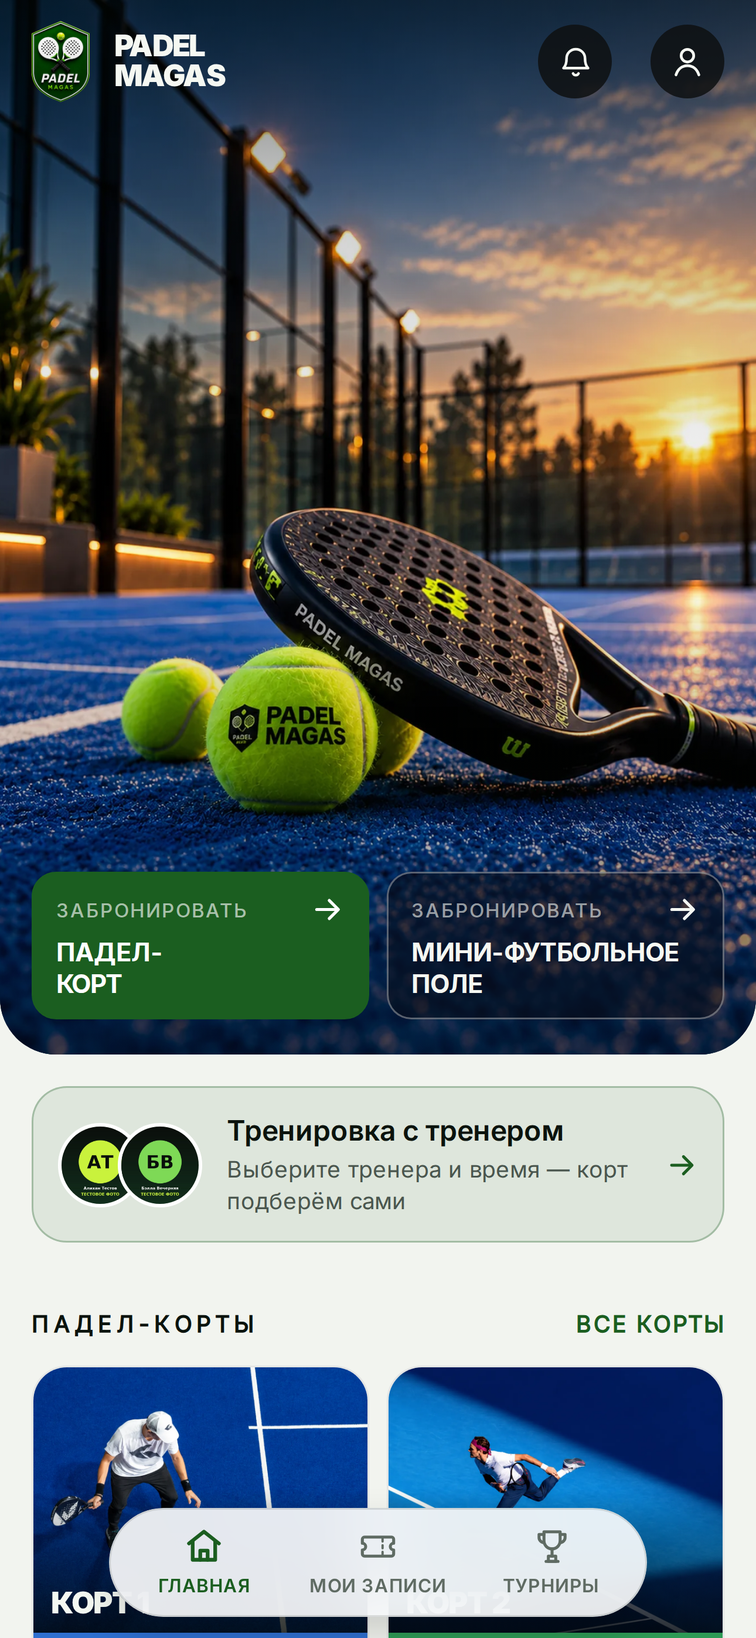
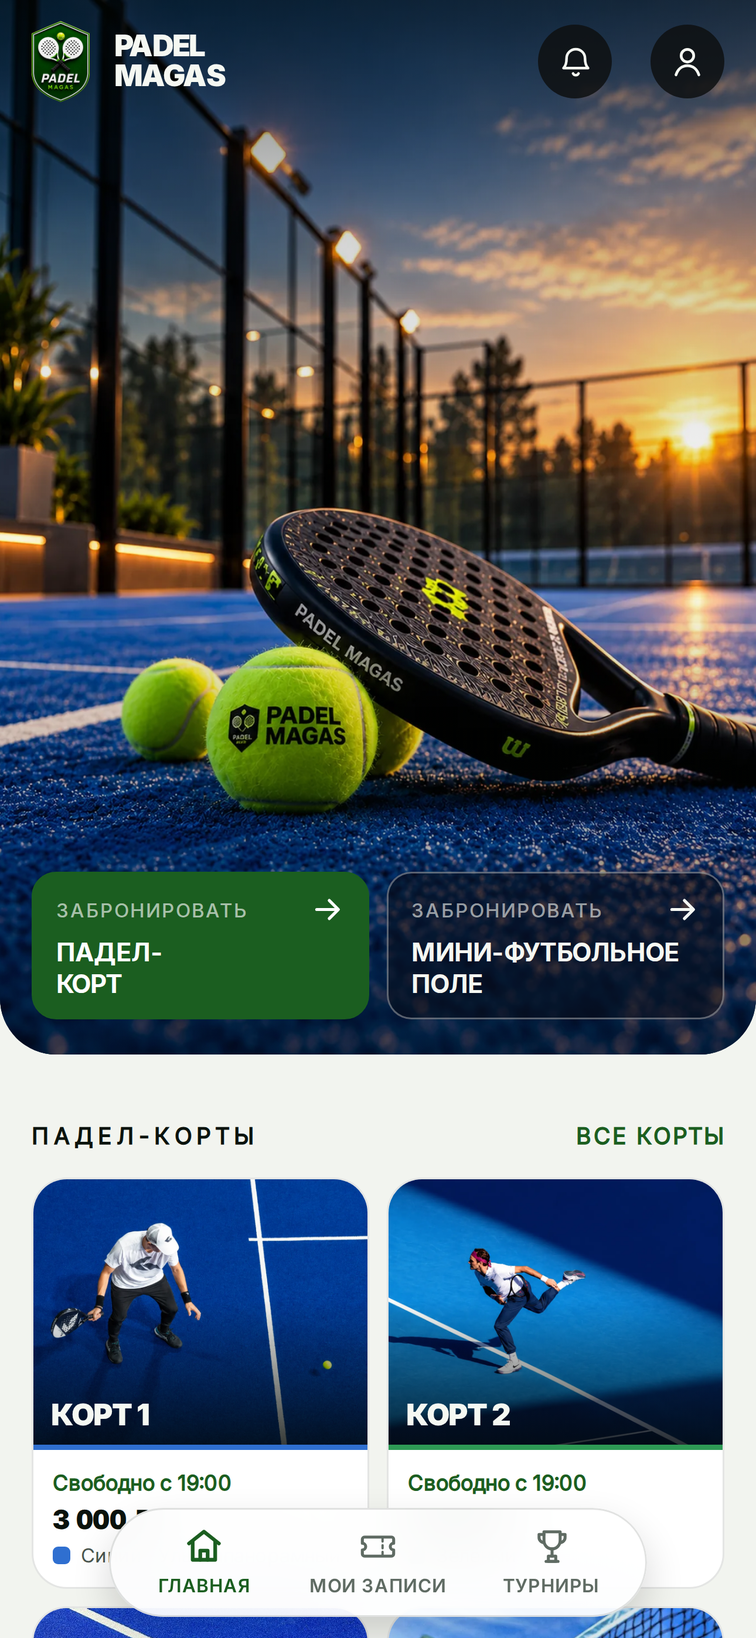
Версия 1.0.4 ушла и в TestFlight, и в App Store
Заказчик попросил, чтобы последняя версия была доступна в обоих местах.
Две версии одновременно на проверке Apple держать не даёт, поэтому заявка
на 1.0.3 отозвана, карточка переименована в 1.0.4, к ней приложена сборка 69.

Сборка 69 добавлена в группу «Друзья» и отправлена на бета-проверку;
владельцу она видна сразу — внутренняя группа имеет доступ ко всем сборкам.

Порядок выпуска собран в scripts/asc/release.py: без --go печатает план,
с --go выполняет. Вызовы сверены с документацией Apple, список в шапке.
asc.py читает идентификаторы ключа из secrets/asc.env, так что скрипты
запускаются одной командой.

В docs/APPSTORE.md записаны три грабли, на которых встал первый прогон:
DEVELOPER_REJECTED вместо PREPARE_FOR_SUBMISSION, пустые заявки нельзя
отозвать но можно использовать, и двухминутное CANCELING.

Changed region(s): [[0.031, 0.6845, 0.9612, 1.0]]

diff --git a/scripts/asc/release.py b/scripts/asc/release.py
@@ -1,0 +1,239 @@
+"""Выпуск версии: сборка уходит и в TestFlight, и в App Store.
+
+    python3 scripts/asc/release.py          # только план, ничего не меняет
+    python3 scripts/asc/release.py --go     # выполнить
+
+Почему так: две версии одновременно на проверке Apple держать не даёт.
+Поэтому заявка на прежнюю версию отзывается, карточке присваивается новый
+номер, к ней прикладывается новая сборка — и заявка отправляется заново.
+
+Вызовы сверены с документацией Apple 09.10.2026:
+  PATCH /v1/reviewSubmissions/{id}                 attributes.canceled | submitted
+  PATCH /v1/appStoreVersions/{id}                  attributes.versionString + relationships.build
+  POST  /v1/reviewSubmissions                      relationships.app
+  POST  /v1/reviewSubmissionItems                  relationships.reviewSubmission + appStoreVersion
+  POST  /v1/betaGroups/{id}/relationships/builds   data[] = {type: builds, id}
+  POST  /v1/betaBuildLocalizations                 attributes.locale + relationships.build
+"""
+import importlib.util, pathlib, sys, time
+
+APP         = '6808335944'
+VERSION_ID  = '36215d4b-1d43-46da-bc51-616c40582fe7'   # карточка версии в магазине
+TARGET      = '1.0.4'                                   # номер, который должен в ней стоять
+BUILD_NUM   = '69'                                      # номер сборки
+GROUP_FRIEND= 'ef6e1f33-4e97-48b4-9dbf-4aab01165420'   # внешняя группа «Друзья»
+OLD_SUB     = '9068f2ef-2bec-4f1f-8f55-213f802b2ead'   # заявка на 1.0.3, стоит в очереди
+EMPTY_SUBS  = ['d19a82fa-b21b-4bb2-8648-777e26faa6e2',  # пустые заявки от неудачных
+               '5a38229d-df61-44c4-b05c-855a86a06481',  # попыток — мешают создать новую
+               '5d534c86-e420-401d-85d7-c7a78ee9cb5d']
+MODEL_BUILD = 'c826c5bf-6f6b-488a-841b-1033a63c9f85'   # сборка 68: с неё берём «что тестировать»
+
+spec = importlib.util.spec_from_file_location('asc', pathlib.Path(__file__).parent / 'asc.py')
+asc = importlib.util.module_from_spec(spec); spec.loader.exec_module(asc)
+
+GO = '--go' in sys.argv
+DEAD = ('CANCELED', 'COMPLETE', 'CANCELLED')
+
+
+def step(text):
+    print(f'\n— {text}')
+
+
+def explain(out):
+    for e in (out or {}).get('errors', [{}]):
+        print(f'    {e.get("title")}: {e.get("detail")}')
+
+
+def must(st, out, label, ok=(200, 201, 204)):
+    if st in ok:
+        print(f'  ✓ {label} (HTTP {st})')
+        return out
+    print(f'  ✗ {label}: HTTP {st}')
+    explain(out)
+    sys.exit(1)
+
+
+def soft(st, out, label, ok=(200, 201, 204)):
+    """Для необязательных шагов: сообщаем и идём дальше, выпуск не останавливаем."""
+    if st in ok:
+        print(f'  ✓ {label} (HTTP {st})')
+        return True
+    print(f'  ! {label}: HTTP {st} — пропускаю')
+    explain(out)
+    return False
+
+
+def wait(label, probe, done, limit=900, pause=20):
+    """Опрашиваем, пока состояние не станет ожидаемым. Без этого следующий шаг падает."""
+    waited = 0
+    while True:
+        value = probe()
+        if done(value):
+            print(f'  ✓ {label}: {value}')
+            return value
+        if waited >= limit:
+            print(f'  ✗ {label}: за {limit // 60} мин осталось {value}')
+            sys.exit(1)
+        print(f'    {label}: {value}, ждём…')
+        time.sleep(pause); waited += pause
+
+
+def build_state(bid):
+    st, out = asc.call('GET', f'/v1/builds/{bid}')
+    return (out.get('data') or {}).get('attributes', {}).get('processingState')
+
+
+def sub_state(sid):
+    st, out = asc.call('GET', f'/v1/reviewSubmissions/{sid}')
+    return (out.get('data') or {}).get('attributes', {}).get('state')
+
+
+def version_state():
+    st, out = asc.call('GET', f'/v1/appStoreVersions/{VERSION_ID}')
+    return (out.get('data') or {}).get('attributes', {}).get('appStoreState')
+
+
+# ── сборка ────────────────────────────────────────────────────────────────────
+step(f'Ищу сборку {BUILD_NUM}')
+st, out = asc.call('GET', f'/v1/builds?filter[app]={APP}&limit=10&sort=-version')
+build = next((b for b in out.get('data', []) if b['attributes']['version'] == BUILD_NUM), None)
+if not build:
+    print(f'  ✗ сборки {BUILD_NUM} в App Store Connect нет — Apple её ещё не приняла')
+    sys.exit(1)
+BUILD_ID = build['id']
+print(f'  ✓ id {BUILD_ID}, состояние {build["attributes"]["processingState"]}')
+
+wait('обработка сборки', lambda: build_state(BUILD_ID), lambda v: v == 'VALID')
+
+st, out = asc.call('GET', f'/v1/builds/{BUILD_ID}/preReleaseVersion')
+carried = (out.get('data') or {}).get('attributes', {}).get('version')
+print(f'  номер версии внутри сборки: {carried}')
+if carried != TARGET:
+    print(f'  ✗ внутри сборки {carried}, а в магазин идёт {TARGET} — Apple отклонит как INVALID_BINARY')
+    sys.exit(1)
+
+if not GO:
+    print('\nЭто был только план. Чтобы выполнить: python3 scripts/asc/release.py --go')
+    sys.exit(0)
+
+# ── TestFlight: внешняя группа и бета-проверка ────────────────────────────────
+step('TestFlight: «что тестировать» для сборки')
+st, out = asc.call('GET', f'/v1/builds/{BUILD_ID}/betaBuildLocalizations')
+mine = {l['attributes']['locale']: l for l in out.get('data', [])}
+st, out = asc.call('GET', f'/v1/builds/{MODEL_BUILD}/betaBuildLocalizations')
+model = {l['attributes']['locale']: l['attributes'].get('whatsNew') for l in out.get('data', [])}
+
+for locale, text in model.items():
+    if not text:
+        continue
+    have = mine.get(locale)
+    if have and (have['attributes'].get('whatsNew') or '').strip():
+        print(f'  ✓ {locale}: текст уже есть, не трогаю')
+    elif have:
+        st, o = asc.call('PATCH', f'/v1/betaBuildLocalizations/{have["id"]}', {"data": {
+            "type": "betaBuildLocalizations", "id": have['id'],
+            "attributes": {"whatsNew": text}}})
+        must(st, o, f'{locale}: текст дописан')
+    else:
+        st, o = asc.call('POST', '/v1/betaBuildLocalizations', {"data": {
+            "type": "betaBuildLocalizations",
+            "attributes": {"locale": locale, "whatsNew": text},
+            "relationships": {"build": {"data": {"type": "builds", "id": BUILD_ID}}}}})
+        must(st, o, f'{locale}: текст добавлен')
+
+step('TestFlight: сборка в группу «Друзья»')
+st, out = asc.call('GET', f'/v1/builds/{BUILD_ID}/betaGroups')
+if any(g['id'] == GROUP_FRIEND for g in out.get('data', [])):
+    print('  ✓ сборка уже в группе')
+else:
+    st, o = asc.call('POST', f'/v1/betaGroups/{GROUP_FRIEND}/relationships/builds',
+                     {"data": [{"type": "builds", "id": BUILD_ID}]})
+    must(st, o, 'сборка добавлена в группу')
+
+step('TestFlight: отправка на бета-проверку')
+st, out = asc.call('GET', f'/v1/builds/{BUILD_ID}/betaAppReviewSubmission')
+already = (out.get('data') or {}).get('attributes', {}).get('betaReviewState')
+if already:
+    print(f'  ✓ уже отправлена, состояние {already}')
+else:
+    st, o = asc.call('POST', '/v1/betaAppReviewSubmissions', {"data": {
+        "type": "betaAppReviewSubmissions",
+        "relationships": {"build": {"data": {"type": "builds", "id": BUILD_ID}}}}})
+    must(st, o, 'отправлена на бета-проверку')
+    print(f'    состояние: {o["data"]["attributes"].get("betaReviewState")}')
+
+# ── App Store: освобождаем карточку ───────────────────────────────────────────
+# Пустые заявки от прошлых неудачных попыток Apple отзывать не даёт: отвечает
+# 409 «not in cancellable state». Зато такую заявку можно использовать повторно —
+# вложить в неё версию и отправить. Поэтому сначала ищем годную, и только если
+# её нет, создаём новую.
+step('App Store: ищу годную пустую заявку среди прошлых')
+REUSABLE = None
+for sid in EMPTY_SUBS:
+    st, it = asc.call('GET', f'/v1/reviewSubmissions/{sid}/items')
+    if it.get('data'):
+        print(f'  · {sid[:8]}: в заявке есть позиции — не трогаю')
+        continue
+    state = sub_state(sid)
+    if state == 'READY_FOR_REVIEW':
+        REUSABLE = sid
+        print(f'  ✓ {sid[:8]}: пустая и готова — использую её')
+        break
+    print(f'  · {sid[:8]}: состояние {state}, не годится')
+
+step('App Store: отзываю заявку на прежнюю версию')
+state = sub_state(OLD_SUB)
+if state in DEAD:
+    print(f'  ✓ уже {state}')
+else:
+    st, o = asc.call('PATCH', f'/v1/reviewSubmissions/{OLD_SUB}', {"data": {
+        "type": "reviewSubmissions", "id": OLD_SUB, "attributes": {"canceled": True}}})
+    must(st, o, f'заявка отозвана (была {state})')
+    wait('состояние заявки', lambda: sub_state(OLD_SUB), lambda v: v in DEAD)
+
+# После своего же отзыва карточка встаёт в DEVELOPER_REJECTED, а не
+# в PREPARE_FOR_SUBMISSION. Оба состояния редактируемые: номер версии и сборку
+# менять можно, заявку отправлять заново — тоже.
+EDITABLE = ('PREPARE_FOR_SUBMISSION', 'DEVELOPER_REJECTED', 'REJECTED',
+            'METADATA_REJECTED', 'INVALID_BINARY')
+wait('карточка версии', version_state, lambda v: v in EDITABLE)
+
+# ── App Store: новый номер, новая сборка, новая заявка ────────────────────────
+step(f'App Store: номер версии → {TARGET}, сборка → {BUILD_NUM}')
+st, o = asc.call('PATCH', f'/v1/appStoreVersions/{VERSION_ID}', {"data": {
+    "type": "appStoreVersions", "id": VERSION_ID,
+    "attributes": {"versionString": TARGET},
+    "relationships": {"build": {"data": {"type": "builds", "id": BUILD_ID}}}}})
+must(st, o, f'версия {TARGET} со сборкой {BUILD_NUM}')
+
+step('App Store: заявка на проверку')
+if REUSABLE:
+    SUB = REUSABLE
+    print(f'  ✓ беру прошлую пустую заявку, id {SUB}')
+else:
+    st, o = asc.call('POST', '/v1/reviewSubmissions', {"data": {
+        "type": "reviewSubmissions",
+        "relationships": {"app": {"data": {"type": "apps", "id": APP}}}}})
+    must(st, o, 'заявка создана', ok=(201,))
+    SUB = o['data']['id']
+    print(f'    id {SUB}')
+
+st, o = asc.call('POST', '/v1/reviewSubmissionItems', {"data": {
+    "type": "reviewSubmissionItems",
+    "relationships": {
+        "reviewSubmission": {"data": {"type": "reviewSubmissions", "id": SUB}},
+        "appStoreVersion": {"data": {"type": "appStoreVersions", "id": VERSION_ID}}}}})
+must(st, o, f'версия {TARGET} вложена в заявку', ok=(201,))
+
+st, o = asc.call('PATCH', f'/v1/reviewSubmissions/{SUB}', {"data": {
+    "type": "reviewSubmissions", "id": SUB, "attributes": {"submitted": True}}})
+must(st, o, 'заявка отправлена')
+print(f'    состояние заявки: {o["data"]["attributes"].get("state")}')
+
+# ── что получилось ────────────────────────────────────────────────────────────
+step('Итог')
+print(f'  App Store: версия {TARGET}, сборка {BUILD_NUM}, карточка {version_state()}')
+st, out = asc.call('GET', f'/v1/builds/{BUILD_ID}/betaAppReviewSubmission')
+print(f'  TestFlight: бета-проверка {(out.get("data") or {}).get("attributes", {}).get("betaReviewState")}')
+print('  Ссылка для друзей: https://testflight.apple.com/join/ujgg3cvu')
+print('\nСостояние потом проверять так: python3 scripts/asc/check-review.py')

diff --git a/scripts/asc/asc.py b/scripts/asc/asc.py
@@ -1,10 +1,26 @@
 """Клиент App Store Connect API. Ключ читается из файла, в вывод не попадает."""
-import os, time, json, sys, urllib.request, urllib.error
+import os, time, json, sys, pathlib, urllib.request, urllib.error
 import jwt
 
 KEY_PATH = os.environ.get('ASC_KEY_PATH', '/root/projects/Magas Paddle/secrets/AuthKey.p8')
-KEY_ID   = os.environ['ASC_KEY_ID']
-ISSUER   = os.environ['ASC_ISSUER_ID']
+
+def _ident(name):
+    """Идентификатор ключа: из окружения, иначе из asc.env рядом с самим ключом.
+    Так скрипты запускаются одной командой, без подстановки переменных руками."""
+    if os.environ.get(name):
+        return os.environ[name]
+    envfile = pathlib.Path(KEY_PATH).with_name('asc.env')
+    if envfile.exists():
+        for line in envfile.read_text().splitlines():
+            line = line.strip()
+            if line.startswith('export '):
+                line = line[7:].strip()
+            if line.startswith(name + '='):
+                return line.split('=', 1)[1].strip().strip('\'"')
+    raise SystemExit(f'Не найден {name}. Задайте его в окружении или в {envfile}')
+
+KEY_ID   = _ident('ASC_KEY_ID')
+ISSUER   = _ident('ASC_ISSUER_ID')
 BASE     = 'https://api.appstoreconnect.apple.com'
 
 def token(exp=1200):

diff --git a/scripts/asc/check-review.py b/scripts/asc/check-review.py
@@ -6,6 +6,7 @@ import importlib.util, pathlib, urllib.request
 
 # Сборки TestFlight: свежая сверху. Добавляя новую, дописывайте строку сюда.
 BUILDS = [
+    ('69', 'c5090884-8719-4938-8de3-c04dc3cd2e90'),
     ('68', 'c826c5bf-6f6b-488a-841b-1033a63c9f85'),
     ('66', 'c92eead0-c3fc-4822-b5bb-2c13c10f700c'),
     ('65', '90c9e0a9-8658-4453-890c-4b411dda5b69'),
@@ -17,7 +18,7 @@ BUILDS = [
     ('2', '3528cbc0-74d0-47cc-af8e-80ae160e3865'),
     ('1', '58f1dd55-f041-4f3a-873e-ec8b0b43b153'),
 ]
-VID   = '36215d4b-1d43-46da-bc51-616c40582fe7'   # 1.0.3, на проверке
+VID   = '36215d4b-1d43-46da-bc51-616c40582fe7'   # 1.0.4, на проверке
 VID_101 = '78967d3c-f94a-40b0-b99f-3836c01f05f0' # 1.0.1, в магазине
 VID_10 = 'd98f5a08-4d50-4543-b6f7-087427d3b640'  # 1.0, прежняя
 LINK  = 'https://testflight.apple.com/join/ujgg3cvu'

diff --git a/docs/APPSTORE.md b/docs/APPSTORE.md
@@ -271,3 +271,39 @@
 Порядок выпуска, коротко: поднять `version` и `buildNumber` → собрать →
 дождаться обработки → приложить сборку к версии → «Что нового» → отправить.
 
+
+### Версия 1.0.4 отправлена на проверку (09.10.2026)
+
+| Что | Значение |
+|---|---|
+| Версия | 1.0.4, карточка `id 36215d4b-1d43-46da-bc51-616c40582fe7` |
+| Сборка | 69 — чистый экран входа, счёт брони с прокатом, ракетка в цене корта |
+| Заявка | `id d19a82fa-b21b-4bb2-8648-777e26faa6e2` |
+| Состояние | `WAITING_FOR_REVIEW` в магазине и в TestFlight |
+
+Версия 1.0.3 со сборкой 68 **в магазин не пошла**: её заявка отозвана, потому
+что две версии одновременно на проверке Apple держать не даёт, а заказчику нужны
+были в магазине именно свежие правки. Карточка переименована с 1.0.3 на 1.0.4,
+к ней приложена сборка 69.
+
+Весь порядок теперь выполняет один скрипт — `python3 scripts/asc/release.py`
+(без ключей печатает план, с `--go` выполняет). Вызовы в нём сверены
+с документацией Apple, список — в шапке скрипта.
+
+## Три грабли выпуска 1.0.4
+
+1. **После своего же отзыва карточка встаёт в `DEVELOPER_REJECTED`,
+   а не в `PREPARE_FOR_SUBMISSION`.** Состояние редактируемое: номер версии
+   и сборку менять можно, отправлять заново — тоже. Ждать перехода
+   в `PREPARE_FOR_SUBMISSION` бессмысленно, он не наступит.
+
+2. **Пустые заявки отозвать нельзя, но можно использовать.** На `canceled: true`
+   Apple отвечает `409 Resource is not in cancellable state`. Зато в такую
+   заявку можно вложить версию и отправить её — именно так и ушла 1.0.4.
+   Создавать новую заявку при этом не нужно.
+
+3. **Отзыв идёт не мгновенно.** Заявка висит в `CANCELING` около двух минут,
+   и только потом становится `COMPLETE`. До этого карточку не тронуть.
+
+Контакт для бета-проверки TestFlight заполнен в аккаунте один раз и держится:
+для новых сборок телефон заново не требуется.

diff --git a/docs/RELEASE-IOS.md b/docs/RELEASE-IOS.md
@@ -184,3 +184,17 @@ Apple reviews the build and its accompanying metadata»*.
 Если минуты кончились: либо ждать первого числа, либо задать лимит трат
 с привязанной картой. Других способов собрать iOS у нас нет — сборка требует
 macOS, а на VDS его нет.
+
+## Ключ App Store Connect: больше не нужно подставлять руками
+
+`scripts/asc/asc.py` берёт `ASC_KEY_ID` и `ASC_ISSUER_ID` из `secrets/asc.env`,
+если их нет в окружении. Поэтому любой скрипт запускается одной командой:
+
+```bash
+python3 scripts/asc/check-review.py     # где сейчас обе проверки
+python3 scripts/asc/release.py          # план выпуска, ничего не меняет
+python3 scripts/asc/release.py --go     # выполнить выпуск
+```
+
+Сам ключ в вывод не попадает. В `.claude/settings.json` разрешён запуск
+только `python3 scripts/asc/*` — без общего доступа к сети.
